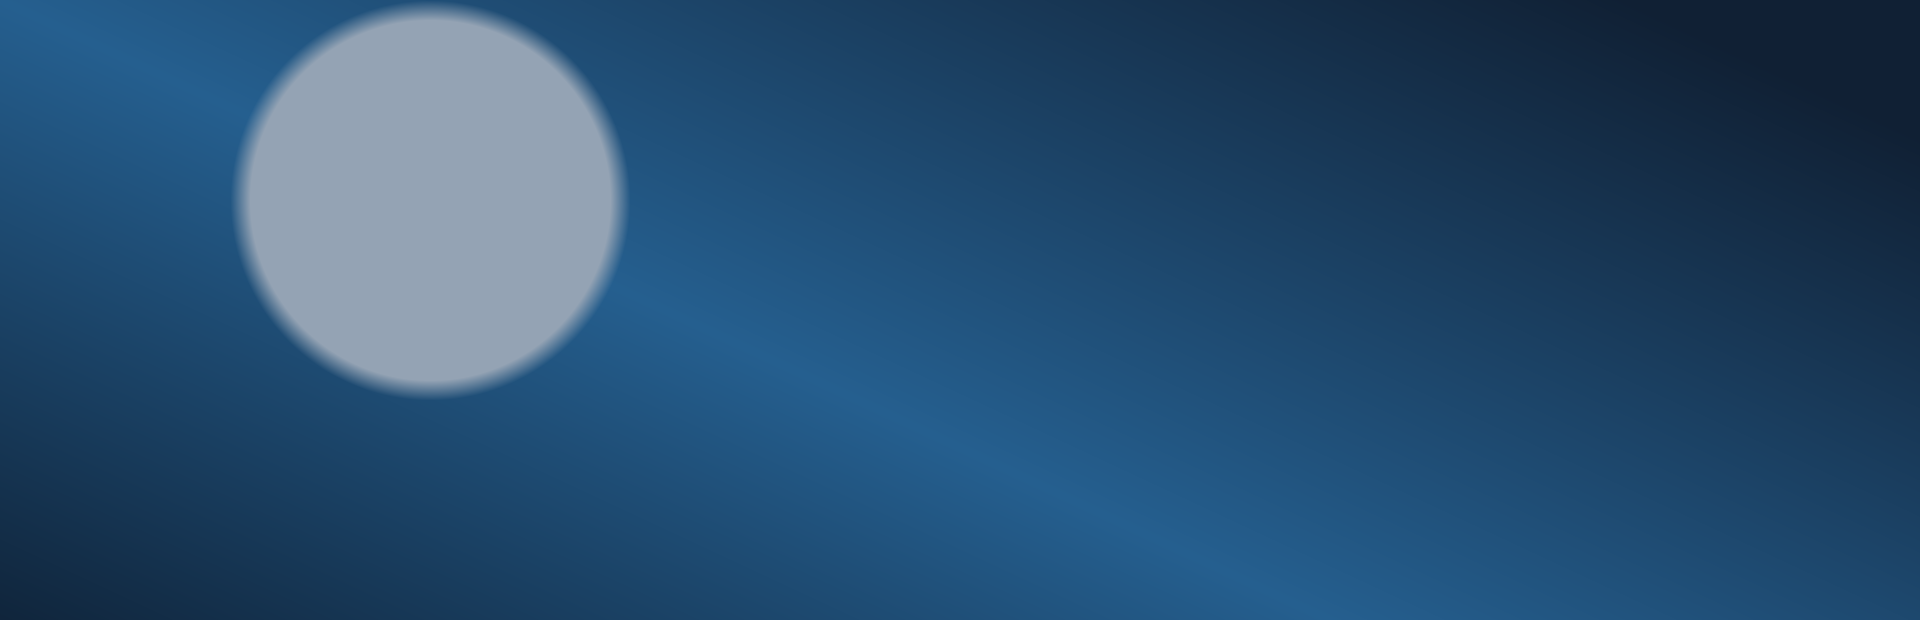
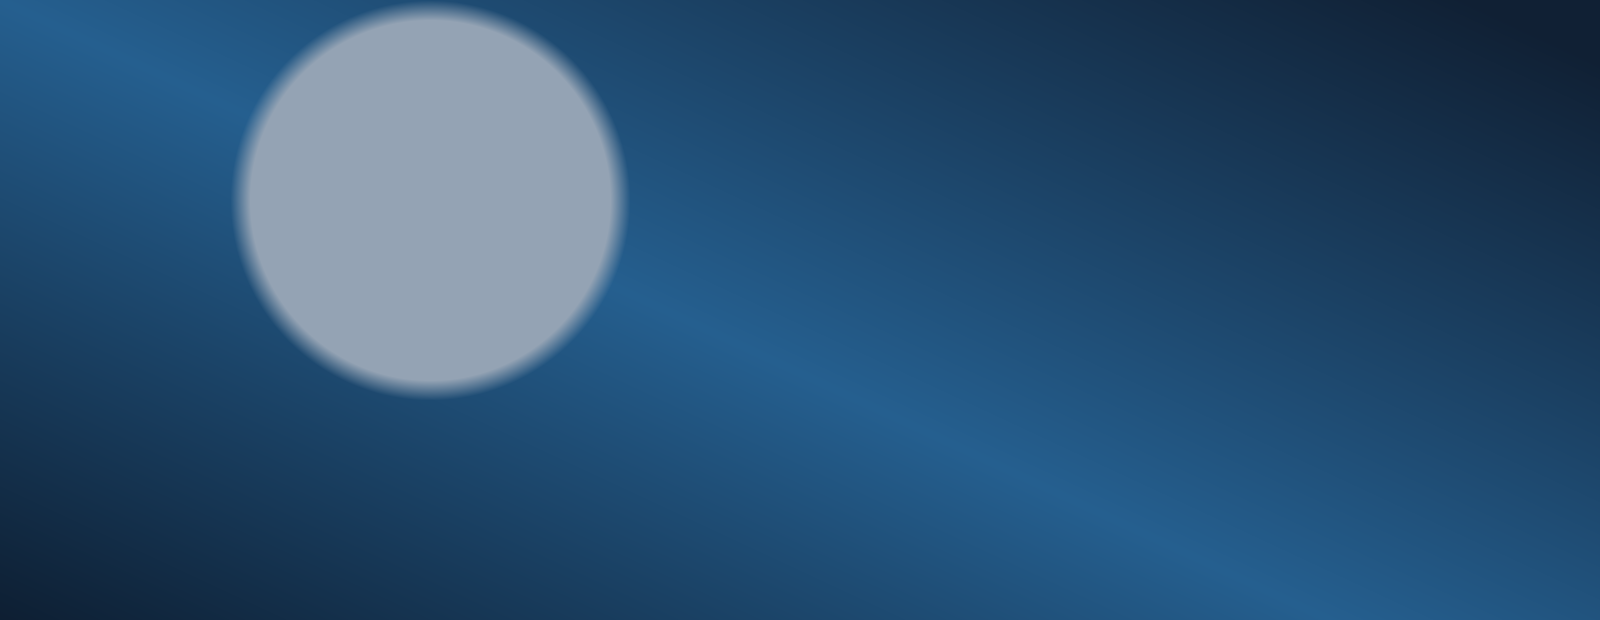
harden taxonomy and image contracts

Changed region(s): [[0.125, 0.0, 0.4062, 0.6435]]

diff --git a/scripts/gen-example-images.py b/scripts/gen-example-images.py
@@ -7,11 +7,11 @@ Pillow.
 
 Composition notes, all of them driven by file size:
   - No per-pixel noise. Grain is what makes a smooth gradient incompressible
-    (a 1920x620 gradient is 31KB clean, 131KB with 12x12 block noise). Soft
+    (a wide gradient is 31KB clean, 131KB with 12x12 block noise). Soft
     disc edges carry the visual interest instead.
   - No exp() radial glow for the same reason: it varies at every pixel.
-  - Demo hero sources sit at 1920px to exercise the production cap: output
-    stops at 1600px even when an oversized input is supplied.
+  - Demo hero sources match the 1600px production contract, avoiding source
+    pixels that the default pipeline can never publish.
 
 Usage:
   python3 scripts/gen-example-images.py [--out exampleSite/assets/images]
@@ -185,27 +185,27 @@ def main():
     # Heroes. The theme's hero is a fixed-height band, about 3:1 on desktop,
     # not 16:9. These sit near 3:1 with the brightest mark in the middle band,
     # which is the area that survives every crop.
-    emit(root, 'hero-home.png', 1920, 620,
-         overlay(gradient(1920, 620, (DEEP, ACCENT, ACCENT_LT), 25),
-                 [(disc(1460, 190, 150), WARM_LT, 'alpha'), (disc(1150, 470, 80), WARM, 'alpha')]))
-    emit(root, 'hero-about.png', 1920, 620,
-         overlay(gradient(1920, 620, ((16, 32, 52), ACCENT, DEEP), 115),
+    emit(root, 'hero-home.png', 1600, 620,
+         overlay(gradient(1600, 620, (DEEP, ACCENT, ACCENT_LT), 25),
+                 [(disc(1240, 190, 150), WARM_LT, 'alpha'), (disc(980, 470, 80), WARM, 'alpha')]))
+    emit(root, 'hero-about.png', 1600, 620,
+         overlay(gradient(1600, 620, ((16, 32, 52), ACCENT, DEEP), 115),
                  [(disc(430, 200, 190), SLATE, 'alpha')]))
-    emit(root, 'hero-features.png', 1920, 620,
-         overlay(gradient(1920, 620, (DEEP, (24, 56, 88), ACCENT), 60),
-                 [(disc(1450, 200, 150), ACCENT_LT, 'alpha'), (disc(1180, 470, 90), WARM_LT, 'alpha')]))
-    emit(root, 'hero-shortcodes.png', 1920, 620,
-         overlay(gradient(1920, 620, ((9, 20, 34), (20, 42, 66), ACCENT), 35),
-                 [(dots(1920, 620, 56, 4), ACCENT_LT, 'add')]))
-    emit(root, 'hero-gallery.png', 1920, 620,
-         overlay(gradient(1920, 620, ((34, 24, 22), WARM, WARM_LT), 150),
-                 [(disc(1350, 300, 210), (255, 240, 220), 'alpha')]))
-    emit(root, 'hero-docs.png', 1920, 620,
-         overlay(gradient(1920, 620, ((206, 216, 228), (168, 190, 212), DEEP), 90),
+    emit(root, 'hero-features.png', 1600, 620,
+         overlay(gradient(1600, 620, (DEEP, (24, 56, 88), ACCENT), 60),
+                 [(disc(1240, 200, 150), ACCENT_LT, 'alpha'), (disc(1020, 470, 90), WARM_LT, 'alpha')]))
+    emit(root, 'hero-shortcodes.png', 1600, 620,
+         overlay(gradient(1600, 620, ((9, 20, 34), (20, 42, 66), ACCENT), 35),
+                 [(dots(1600, 620, 56, 4), ACCENT_LT, 'add')]))
+    emit(root, 'hero-gallery.png', 1600, 620,
+         overlay(gradient(1600, 620, ((34, 24, 22), WARM, WARM_LT), 150),
+                 [(disc(1180, 300, 210), (255, 240, 220), 'alpha')]))
+    emit(root, 'hero-docs.png', 1600, 620,
+         overlay(gradient(1600, 620, ((206, 216, 228), (168, 190, 212), DEEP), 90),
                  [(disc(560, 300, 180), ACCENT_LT, 'alpha')]))
-    emit(root, 'hero-contact.png', 1920, 620,
-         overlay(gradient(1920, 620, (ACCENT_LT, ACCENT, DEEP), 70),
-                 [(disc(1420, 400, 170), (226, 236, 246), 'alpha')]))
+    emit(root, 'hero-contact.png', 1600, 620,
+         overlay(gradient(1600, 620, (ACCENT_LT, ACCENT, DEEP), 70),
+                 [(disc(1220, 400, 170), (226, 236, 246), 'alpha')]))
 
     # Feature cards at 16:9, the ratio the card frame locks to.
     for i, (name, stops, angle) in enumerate([

diff --git a/CHANGELOG.md b/CHANGELOG.md
@@ -84,7 +84,10 @@ re-derived from the templates.
 - **Image output has a per-source ceiling.** A source may produce no more than
   four responsive candidates plus one fixed social-preview JPEG. The build
   gate reports total files, HTML, images and output size, then fails if role
-  reuse or another transform expands that set beyond five files.
+  reuse or another transform expands that set beyond five files. The default
+  ladder ends at 1600px, the shared hero/illustration cap, so no configured
+  rung or demo-source pixels are unreachable; the separate caps remain site
+  override hooks.
 - **The output gate judges the deployable build.** Site and fixture validation
   run `hugo --minify`; the parser accepts quoted and standards-compliant
   unquoted attributes, so canonical, schema, link and image checks need no
@@ -134,7 +137,9 @@ re-derived from the templates.
   `[taxonomies]`, so the site either enables Strata's `tags`/`series` features
   or supplies an empty table to disable Hugo's implicit taxonomies. The site
   gate accepts both modes, rejects an omitted table and catches mappings that
-  the theme's `GetTerms` calls cannot resolve.
+  the theme's `GetTerms` calls cannot resolve. Config fragments are deep-merged
+  before that decision, and the theme gate builds a generated taxonomy-free
+  consumer to prove it emits neither term directories nor empty term markup.
 - **Hugo 0.161.0+ compiles the stylesheet through node.** Hugo dropped the
   standalone Tailwind binary in 0.161.0, so the theme ships a `package.json`
   naming the four Tailwind packages and `scripts/new-site.sh` writes one into
@@ -279,4 +284,6 @@ derived from the templates rather than written by hand, so there is one source
 of truth and it cannot rot; it runs on `exampleSite` from `validate-theme.sh`
 and on a consuming site from `validate-site.sh`. `test/fixture` is a gate
 harness with deliberately minimal front matter, so it does not pass this lint
-and is not judged by it.
+and is not judged by it. Hugo flattens a front matter `params:` map into
+`.Params`; a rendered fixture pins that behavior, while the source lint applies
+the same allowlist to nested and top-level spellings.

diff --git a/exampleSite/content/docs/configuration.md b/exampleSite/content/docs/configuration.md
@@ -37,11 +37,11 @@ The image and build thresholds get their own table because the build scripts and
 
 | Key | Default | Effect |
 |---|---|---|
-| `[params.image].ladder` | `[480, 800, 1280, 1920]` | Variant widths, smallest first. Each is capped by the source width and the role cap, de-duplicated, and dropped if less than 15% wider than its kept predecessor |
+| `[params.image].ladder` | `[480, 800, 1280, 1600]` | Variant widths, smallest first. Each is capped by the source width and the role cap, de-duplicated, and dropped if less than 15% wider than its kept predecessor |
 | `[params.image].quality` | `78` | One WebP quality for every width, so a width is never stored twice |
 | `[params.image].caps.card` | `800` | Widest variant for a card |
 | `[params.image].caps.illustration` | `1600` | Widest illustration variant; matches the SciVisual source profile and leaves density headroom at the default reading measure |
-| `[params.image].caps.hero` | `1600` | Widest hero variant; aligns with the SciVisual 1600×900 source contract and shares the illustration ladder |
+| `[params.image].caps.hero` | `1600` | Widest hero variant; deliberately shares the illustration ladder so one source does not create duplicate role-specific transforms. The separate key remains a site override hook |
 | `[params.image].og.width` / `.height` | `1200` / `630` | Fixed preview size — what Facebook, LinkedIn and Google request. `scripts/place-image.sh` lints the source against the same pair |
 | `[params.build].pageimageskb` | `600` | Largest rendered image payload on one browser visit, in KiB — `check-build` R5; social metadata is excluded because a page visit does not download it |
 | `[params.build].minwidth.hero` | `1600` | Minimum source width per role, linted by `scripts/place-image.sh` |

diff --git a/exampleSite/content/docs/images.md b/exampleSite/content/docs/images.md
@@ -58,7 +58,7 @@ picture a page shows is the picture it advertises.
 ## Variant ladder
 
 Bitmap images (JPEG/PNG) are encoded as WebP at the ladder widths —
-`[params.image].ladder`, 480 / 800 / 1280 / 1920 by default — each step capped
+`[params.image].ladder`, 480 / 800 / 1280 / 1600 by default — each step capped
 by the source width and by the image role, de-duplicated, and a step less than
 15% wider than its predecessor is dropped. Results:
 

diff --git a/exampleSite/content/posts/shipping-images-that-load.md b/exampleSite/content/posts/shipping-images-that-load.md
@@ -56,7 +56,7 @@ the one before it.** You keep the variety where it matters and you stop
 paying for the near-duplicates.
 
 ```text
-ladder  480  800  1280  1920
+ladder  480  800  1280  1600
 cap     card 800  illustration 1600  hero 1600
 ```
 

diff --git a/exampleSite/content/gallery.md b/exampleSite/content/gallery.md
@@ -18,7 +18,7 @@ oversized input from adding another output rung.
 
 ```
 cap:  hero 1600  ·  illustration 1600  ·  card 800
-ladder: 480 800 1280 1920
+ladder: 480 800 1280 1600
 steps within 15% of their predecessor are dropped
 ```
 

diff --git a/test/fixture/content/section-a/inline.md b/test/fixture/content/section-a/inline.md
@@ -1,8 +1,9 @@
 ---
 title: "Inline markdown image"
-summary: "Inline illustration summary"
 date: 2026-01-02
 weight: 40
+params:
+  summary: "Inline illustration summary"
 ---
 Body before.
 
